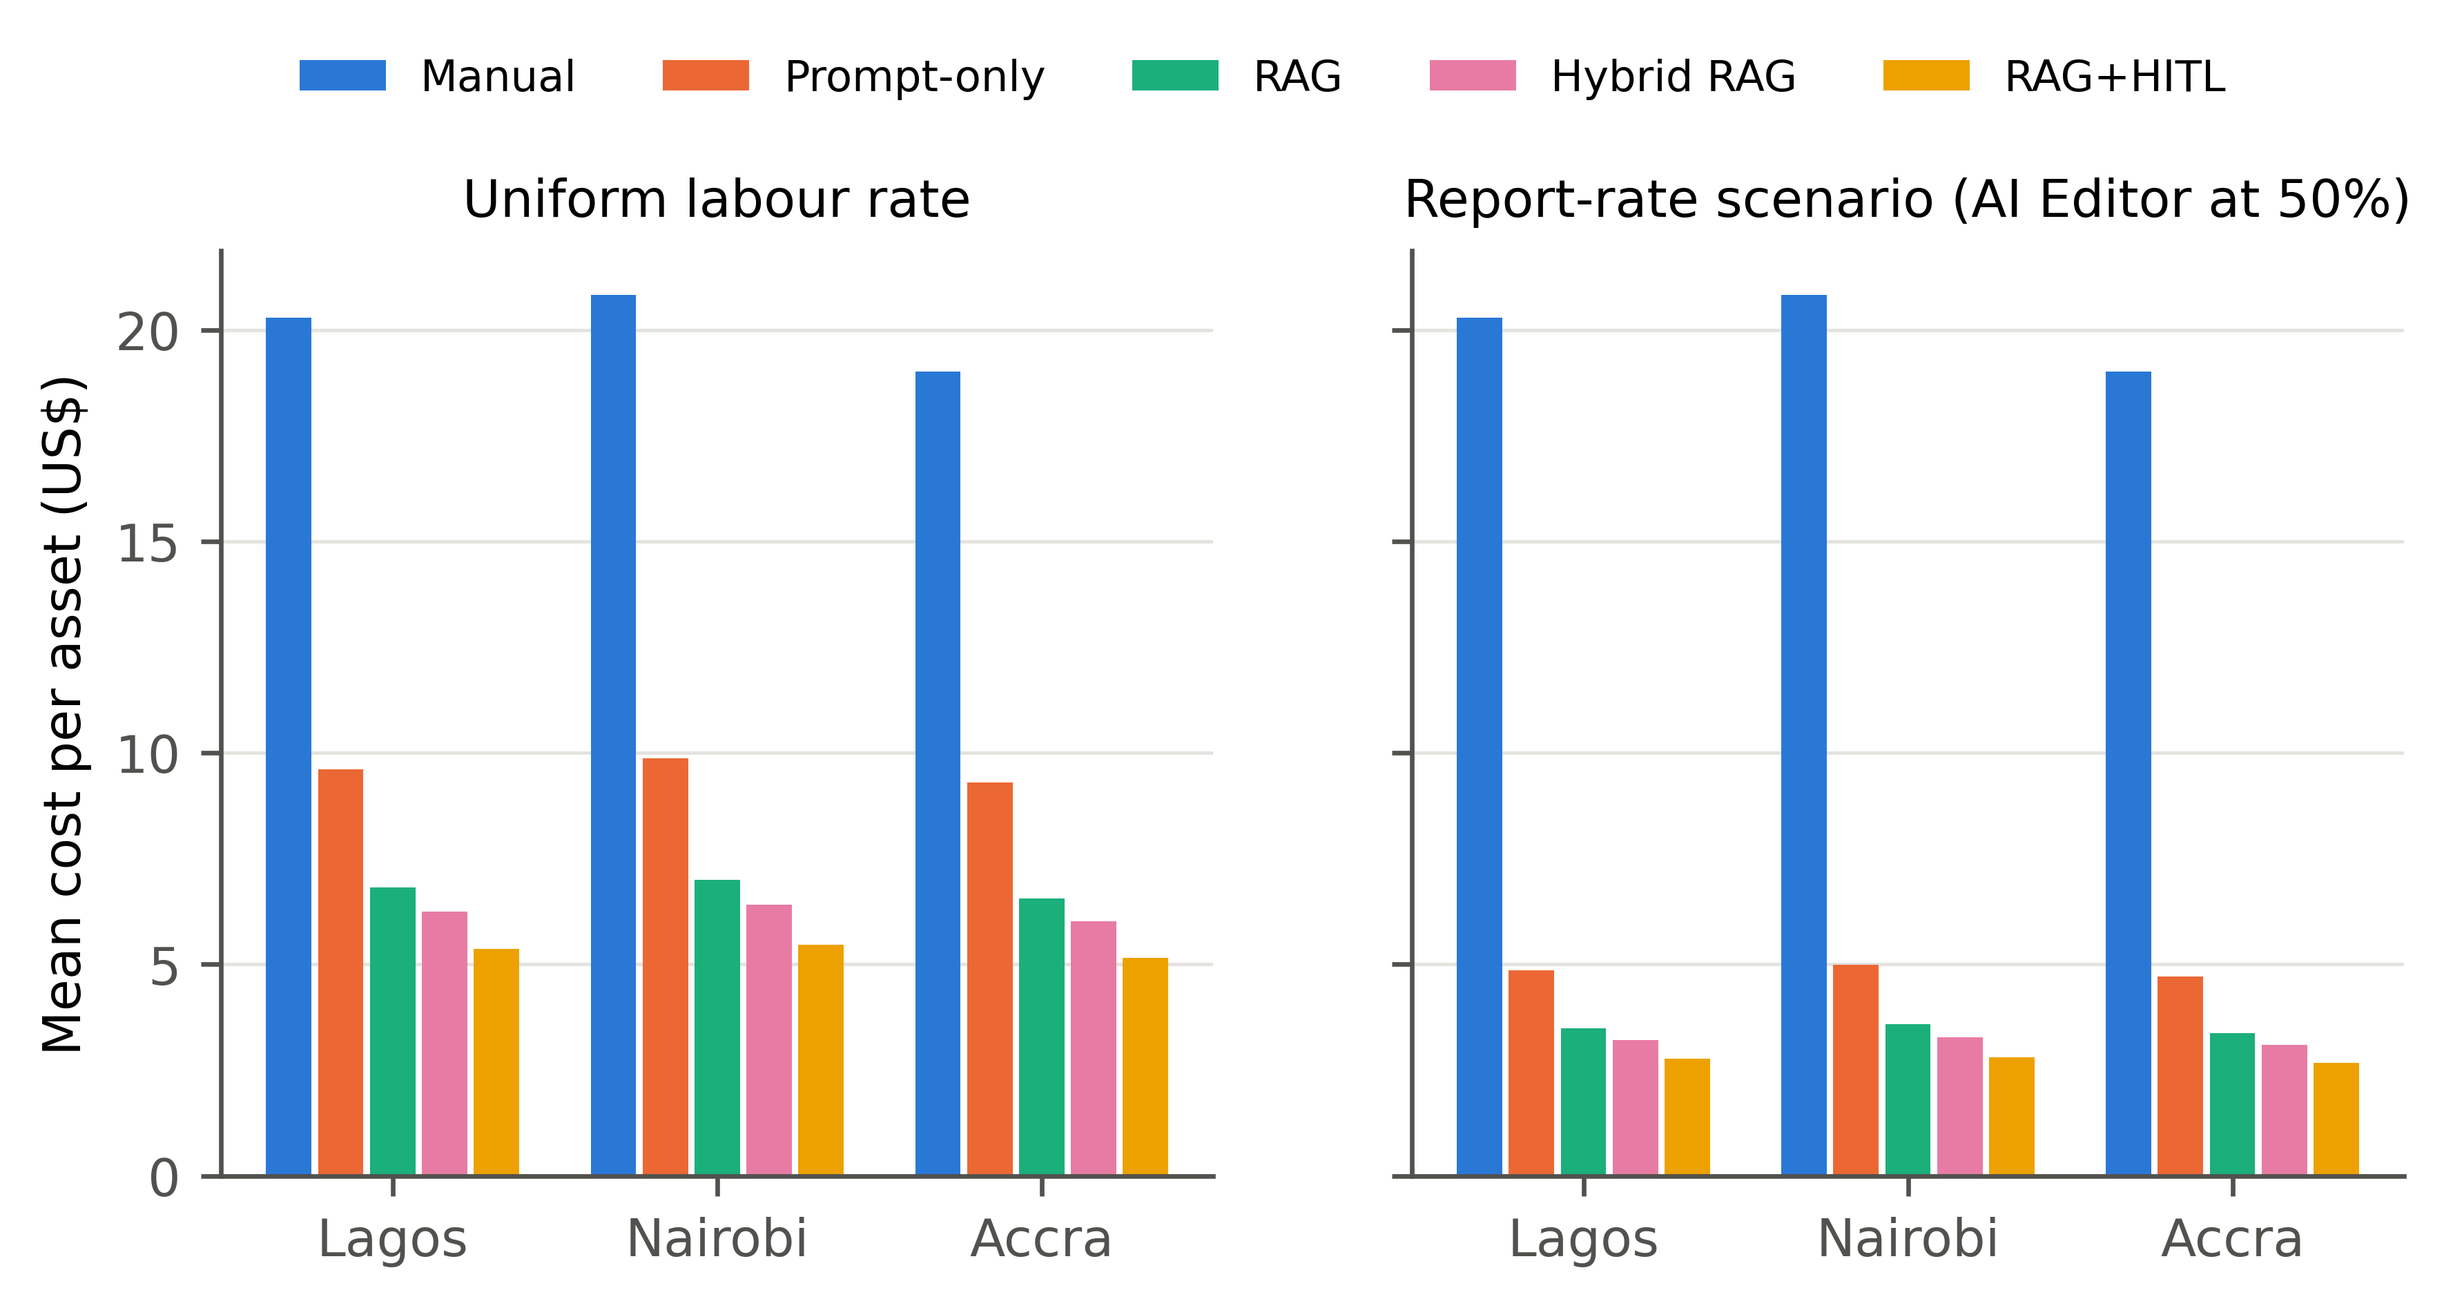
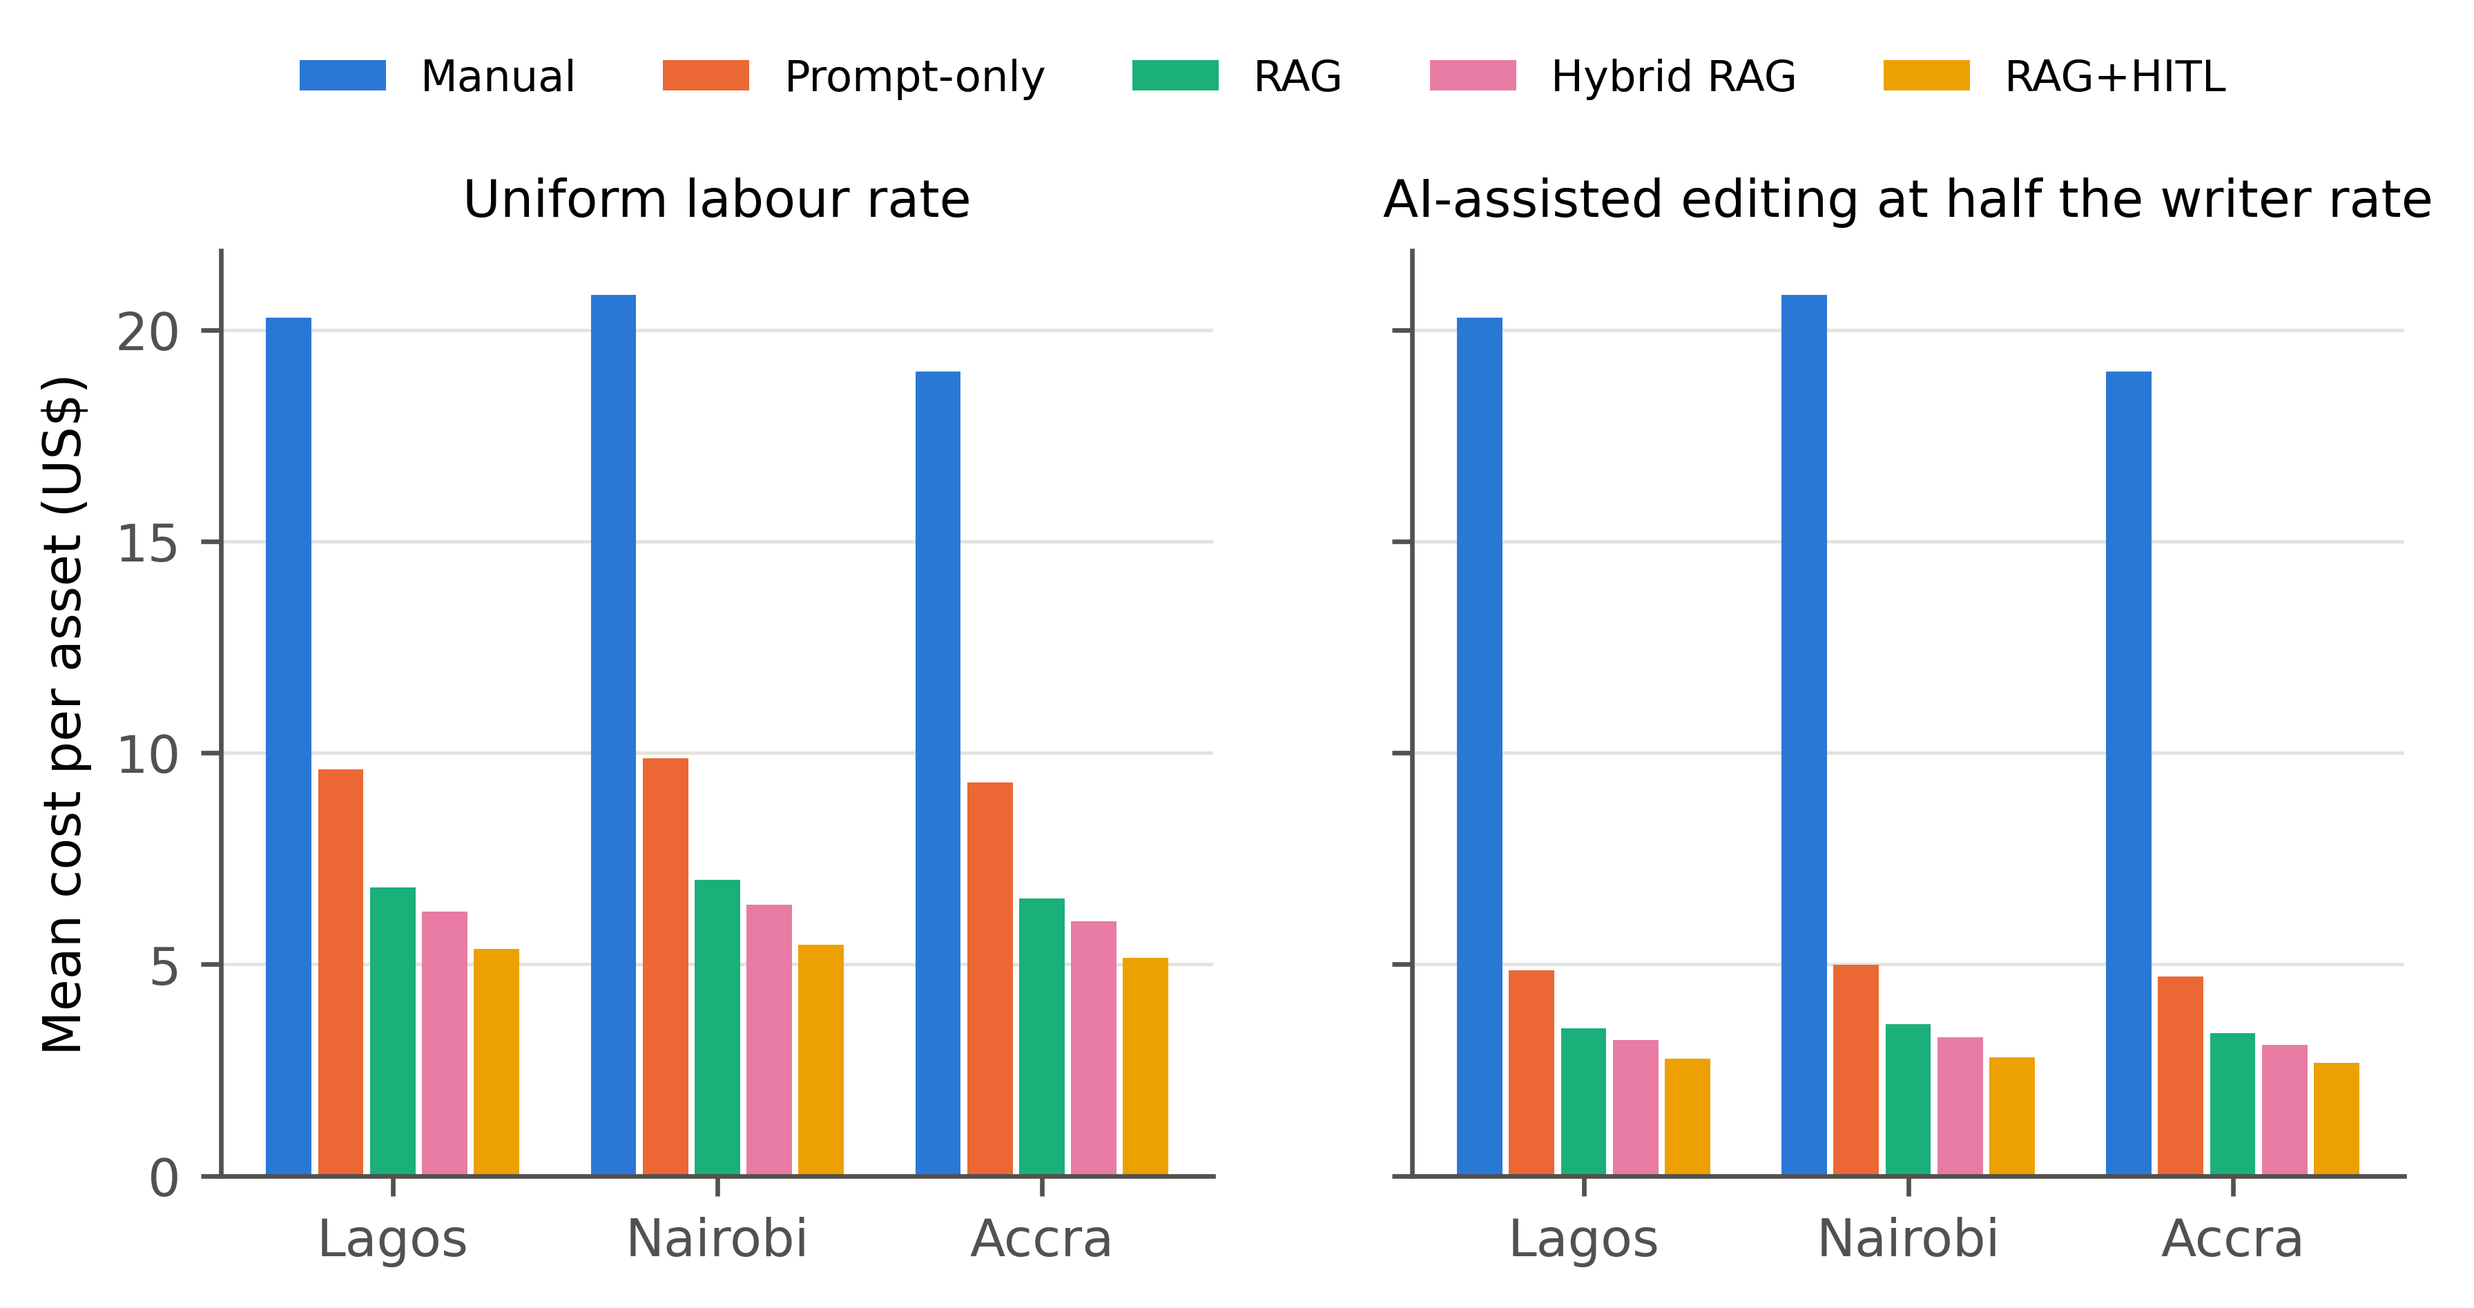
Describe sources as observed pilot records; relabel half-rate cost scenario
Wording only: all simulated values and statistics are unchanged.

diff --git a/src/build_workbook.py b/src/build_workbook.py
@@ -19,8 +19,8 @@ DICT = {
  "evidence_basis": "Pilot-anchored (Lagos) or literature-extrapolated (Nairobi/Accra); ablation arm flagged",
  "editor_id": "Writer / AI Editor", "editor_ai_experience_months": "Prior GenAI experience (months)", "native_speaker_review": "1 = local-language output reviewed by native-speaker AI Editor (RAG+HITL)",
  "gen_or_draft_min": "Manual drafting, or prompt preparation + generation + retrieval (min)", "editing_min": "Human editing to acceptance (min)",
- "total_min": "Total production time (min)", "revisions": "Revision rounds to acceptance", "major_edits": "Major editorial interventions (report Table 4.10)",
- "minor_edits": "Minor editorial interventions (report Table 4.10)", "first_pass_accepted": "1 = first draft accepted without major revision", "turnaround_days": "Calendar days brief-to-approval incl. queueing",
+ "total_min": "Total production time (min)", "revisions": "Revision rounds to acceptance", "major_edits": "Major editorial interventions (pilot categories)",
+ "minor_edits": "Minor editorial interventions (pilot categories)", "first_pass_accepted": "1 = first draft accepted without major revision", "turnaround_days": "Calendar days brief-to-approval incl. queueing",
  "rater1_overall": "Blinded rater 1 overall quality (1-5, half-point)", "rater2_overall": "Blinded rater 2", "rater3_overall": "Blinded rater 3", "overall_quality": "Mean of 3 blinded raters (holistic rating)",
  "q_brand_consistency": "Quality rubric: brand voice (1-5)", "q_factual_accuracy": "Quality rubric: accuracy vs approved sources", "q_readability": "Quality rubric: readability",
  "q_personalisation": "Quality rubric: personalisation to segment", "q_grammar": "Quality rubric: grammar", "q_cta": "Quality rubric: call to action", "q_compliance": "Quality rubric: legal/regulatory compliance",
@@ -28,15 +28,15 @@ DICT = {
  "segment_distinctiveness": "Semantic distance between segment variants (0-1)",
  "err_unsupported_claims": "Audit: unsupported claims", "err_missing_citations": "Audit: missing citations", "err_incorrect_facts": "Audit: incorrect facts",
  "err_wrong_tone": "Audit: wrong tone", "err_generic_copy": "Audit: generic copy", "err_missing_cta": "Audit: missing CTA", "err_unsupported_statistic": "Audit: unsupported statistic", "err_outdated_claim": "Audit: outdated claim",
- "hallucination_errors": "Report definition: unsupported claims + missing citations + incorrect facts", "total_errors": "Sum of all 8 audited error types",
+ "hallucination_errors": "Definition: unsupported claims + missing citations + incorrect facts", "total_errors": "Sum of all 8 audited error types",
  "factual_claims": "Checkable claims in asset", "unsupported_or_incorrect_claims": "Claims unsupported/incorrect/unsourced statistic/outdated", "supported_claim_rate": "1 - bad claims / claims",
  "max_similarity": "Max n-gram similarity to reference corpus", "copyright_flag": "1 = similarity > 0.30", "retrieved_docs": "Documents injected into context",
  "hit_at_3": "Relevant doc in top 3", "precision_at_3": "Relevant in top 3 / 3", "recall_at_3": "Relevant in top 3 / relevant in KB", "reciprocal_rank": "1/rank of first relevant (0 if none in top 3)",
  "input_tokens": "LLM input tokens", "output_tokens": "LLM output tokens", "latency_s": "Retrieval + time-to-first-token (s)", "api_cost_usd": "GPT-4o + embedding API cost (US$)",
  "platform_cost_usd": "Amortised vector DB / monitoring cost", "labour_rate_usd_h": "Market fully loaded labour rate (Lagos from pilot; others assumption)",
  "labour_cost_uniform_usd": "Active minutes x market rate (all workflows)", "total_cost_uniform_usd": "PRIMARY cost per accepted asset",
- "labour_cost_report_rate_usd": "Scenario reproducing the preliminary report: AI-assisted work at 50% of rate", "total_cost_report_rate_usd": "Report-rate scenario cost per asset",
- "hitl_primary_intervention": "Main HITL intervention type (report Table 4.11 categories)", "data_status": "Every row SYNTHETIC",
+ "labour_cost_report_rate_usd": "Sensitivity scenario: AI-assisted work paid at 50% of the writer rate", "total_cost_report_rate_usd": "Sensitivity-scenario cost per asset (AI-assisted work at 50% rate)",
+ "hitl_primary_intervention": "Main HITL intervention type (pilot categories)", "data_status": "Every row SYNTHETIC",
 }
 wb = Workbook(write_only=True)
 def hdr(ws, cols):
@@ -50,7 +50,7 @@ for t in ["GenAI Creative Engine — 50,000-record simulated extension", "",
           "Design: 5 workflows x 10,000 paired tasks = 50,000 observations x 78 variables. Tasks = 5 fictional clients x 10 segments x 5 content types x 2 languages x replicates (Lagos 10, Nairobi 5, Accra 5).",
           "Calibration: the pilot anchor cell (EcoFresh x Lagos x Social Post, off-peak) reproduces all 60 observed pilot measures within 2 standard errors (sheet Calibration_Audit).",
           "Hybrid RAG is an ablation arm whose parameters are an explicit assumption (retrieval = 40% of time/quality gain, 60% of factual-error gain); it is not observed.",
-          "Costs: total_cost_uniform_usd (same labour rate for all workflows; primary) and total_cost_report_rate_usd (AI-assisted labour at 50% rate, reproducing the report's US$1.56).",
+          "Costs: total_cost_uniform_usd (same labour rate for all workflows; primary) and total_cost_report_rate_usd (AI-assisted labour at 50% rate; sensitivity scenario).",
           "Tables T1-T5: pilot anchor cell, off-peak, mean per brief; compare with the observed pilot values alongside."]:
     ws.append([t])
 ws = wb.create_sheet("Data"); hdr(ws, list(D.columns))

diff --git a/src/generate_simulation.py b/src/generate_simulation.py
@@ -2,9 +2,8 @@
 GenAI Creative Engine - 50,000-record SIMULATED (synthetic) extension of the observed pilot
 ===================================================================================
 Every value produced here is SIMULATED. It is anchored to the OBSERVED Phase-1
-Lagos pilot (per-brief values, Tables 4.1, 4.3-4.8, 4.10, 4.18, 4.19 and 3.9 of
-the preliminary technical report) and to effect directions reported in the
-supporting literature. It must be labelled synthetic in any publication.
+Lagos pilot (observed per-brief records, data/pilot_observed.csv) and to effect
+directions reported in the supporting literature. It must be labelled synthetic in any publication.
 
 Design (paired across workflows):
   5 workflows x 10,000 tasks = 50,000 records
@@ -12,7 +11,7 @@ Design (paired across workflows):
           replicates: Lagos 10 (HQ / pilot site, 50% of volume), Nairobi 5, Accra 5
 Anchor cell  = pilot client (EcoFresh, FMCG) x Lagos x English x Social Post x off-peak
                -> reproduces the observed per-brief pilot values in expectation.
-Yoruba anchor = same cell in Yoruba under RAG+HITL (report Table 4.18).
+Yoruba anchor = same cell in Yoruba under RAG+HITL (observed pilot).
 """
 import itertools, numpy as np, pandas as pd
 
@@ -23,7 +22,7 @@ rng = np.random.default_rng(SEED)
 SEGS = ["Students", "Young Professionals", "Working Mothers", "Fitness Enthusiasts", "Entrepreneurs",
         "Senior Adults", "Rural Communities", "Premium Customers", "Environmentally Conscious", "Corporate Buyers"]
 BID = [f"B{i:03d}" for i in range(1, 11)]
-P = {  # per-brief observed values, Lagos English social post (report Tables 4.1, 4.3, 4.4, 4.5)
+P = {  # per-brief observed values, Lagos English social post (observed pilot)
  "Manual":   dict(gen=[28,31,34,30,35,35,39,33,32,37], edit=[12,14,15,13,15,16,18,14,14,16], rev=[2,2,2,2,2,2,3,2,2,2],
                   q=[4.2,4.2,4.3,4.2,4.3,4.1,4.0,4.3,4.2,4.3], api=[0]*10, docs=[0]*10),
  "Prompt-only": dict(gen=[3,3,3,3,3,3,4,3,3,3], edit=[15,16,18,16,18,19,21,18,17,18], rev=[3,3,3,3,3,3,4,3,3,4],
@@ -33,20 +32,20 @@ P = {  # per-brief observed values, Lagos English social post (report Tables 4.1
  "RAG+HITL": dict(gen=[4,4,4,4,4,4,5,4,4,4], edit=[6,7,8,7,8,9,10,8,8,9], rev=[1,2,2,2,2,2,2,2,2,2],
                   q=[4.5,4.5,4.6,4.5,4.5,4.4,4.3,4.6,4.5,4.5], api=[.05,.05,.06,.05,.06,.05,.06,.06,.06,.06], docs=[5]*10),
 }
-# Yoruba RAG+HITL per brief (Table 4.18)
+# Yoruba RAG+HITL per brief (observed pilot)
 YOR = dict(gen=[5,5,5,5,5,5,6,5,5,5], edit=[10,10,11,10,11,12,14,11,11,12], rev=[2,2,2,2,2,3,3,2,2,2],
            fact=[4.1,4.1,4.0,4.1,4.0,3.9,3.8,4.1,4.0,4.0], flu=[3.6,3.7,3.6,3.7,3.6,3.4,3.3,3.7,3.6,3.5],
            tone=[3.8,3.8,3.7,3.8,3.7,3.6,3.5,3.9,3.8,3.8], cult=[3.5,3.6,3.5,3.5,3.5,3.3,3.2,3.6,3.5,3.4])
-# Quality-rubric dimension means (Table 4.6): brand, factual, readability, personalisation
+# Quality-rubric dimension means (observed pilot): brand, factual, readability, personalisation
 QD = {"Manual": (4.4, 4.5, 4.3, 3.8), "Prompt-only": (3.4, 3.3, 4.0, 4.1), "RAG": (4.0, 4.5, 4.1, 4.2), "RAG+HITL": (4.6, 4.7, 4.4, 4.5)}
-# Multilingual rubric, English (Table 4.19 RAG+HITL: 4.5/4.6/4.4/4.5); other arms = ASSUMPTION
+# Multilingual rubric, English (observed pilot RAG+HITL: 4.5/4.6/4.4/4.5); other arms = ASSUMPTION
 ML = {"Manual": (4.5, 4.5, 4.4, 4.4), "Prompt-only": (3.4, 4.1, 3.4, 3.8), "RAG": (4.4, 4.2, 4.0, 4.0), "RAG+HITL": (4.5, 4.6, 4.4, 4.5)}
 # Errors per 10 briefs (Tables 4.7 + 4.8 unified): unsupported, missing_cit, incorrect, tone, generic, cta, stat, outdated
 ERR = {"Prompt-only": (8, 5, 3, 4, 3, 2, 3, 1), "RAG": (2, 1, 1, 1, 1, 0, 0, 0), "RAG+HITL": (1, 0, 1, 1, 0, 0, 0, 0),
        "Manual": (1.0, 1.0, 0.5, 0.5, 1.5, 0.5, 0.5, 0.5)}           # Manual not audited in pilot -> ASSUMPTION
 ETYPES = ["unsupported_claims", "missing_citations", "incorrect_facts", "wrong_tone", "generic_copy",
           "missing_cta", "unsupported_statistic", "outdated_claim"]
-# Editing interventions per 10 briefs (Table 4.10): major, minor; first-draft acceptance
+# Editing interventions per 10 briefs (observed pilot): major, minor; first-draft acceptance
 EDITS = {"Prompt-only": (3, 14, .60), "RAG": (1, 11, .80), "RAG+HITL": (1, 8, .90), "Manual": (1, 9, .70)}  # Manual = ASSUMPTION
 
 # ------------------------------------------------------------------ ablation arm (ASSUMPTION)
@@ -241,7 +240,7 @@ for (mkt, rep, sec, cc, cx, risk, si, ct, is_loc) in combos:
             api = 0.0; tin = tout = 0; latency = np.nan
         active = total - (0 if not ai else latency / 60 * revisions)
         lab_u = active / 60 * M["rate"]                               # uniform-rate scheme (primary)
-        lab_r = active / 60 * M["rate"] * (0.5 if ai else 1.0)        # report-rate scenario (AI Editor at 50% rate)
+        lab_r = active / 60 * M["rate"] * (0.5 if ai else 1.0)        # sensitivity scenario (AI-assisted editing at 50% rate)
         platform = .03 if wf in ("RAG", "Hybrid RAG", "RAG+HITL") else 0
         ta = float(np.exp(rng.normal(np.log((9.0 if peak else 2.0) if not ai else (.7 if wf == "RAG+HITL" else .6) * (2.2 if peak else 1)), .35))) * C["md"] ** .3
         intervention = rng.choice(["Brand voice correction", "Factual verification", "Cultural localisation", "CTA optimisation", "Compliance review"],

diff --git a/src/analyse_simulation.py b/src/analyse_simulation.py
@@ -23,7 +23,7 @@ for wf in ["Manual", "Prompt-only", "RAG", "RAG+HITL"]:
         m, se = s[sv].mean(), s[sv].std(ddof=1) / np.sqrt(len(s))
         cal.append(dict(workflow=wf, language="English", measure=sv, observed_pilot=o[ov].mean(), synthetic=m,
                         diff=m - o[ov].mean(), z=(m - o[ov].mean()) / se, n_synth=len(s)))
-    # quality dims (report Table 4.6)
+    # quality dims (observed pilot rubric)
     for sv, val in zip(["q_brand_consistency", "q_factual_accuracy", "q_readability", "q_personalisation"],
                        {"Manual": (4.4, 4.5, 4.3, 3.8), "Prompt-only": (3.4, 3.3, 4.0, 4.1), "RAG": (4.0, 4.5, 4.1, 4.2), "RAG+HITL": (4.6, 4.7, 4.4, 4.5)}[wf]):
         m, se = s[sv].mean(), s[sv].std(ddof=1) / np.sqrt(len(s))
@@ -155,7 +155,7 @@ addH("H5", "RAG+HITL sustains quality ≥4.0 in all 10 segments and raises segme
      f"{(seg >= 4).sum()}/10 segments ≥4.0 (min {seg.min():.2f}); distinctiveness {Wd['RAG+HITL'].mean():.2f} vs {Wd['Manual'].mean():.2f}",
      "Segment means; paired t-test", "<0.001", "Yes" if (seg >= 4).sum() == 10 else "Partly")
 addH("H6", "RAG+HITL cuts cost per accepted asset by ≥40% (competitor gap; RQ6)",
-     f"Uniform rate: {c.cost_red_uniform:.1f}% ({c.cu_lo:.1f}–{c.cu_hi:.1f}); report-rate scenario: {c.cost_red_reportrate:.1f}% ({c.cr_lo:.1f}–{c.cr_hi:.1f})",
+     f"Uniform rate: {c.cost_red_uniform:.1f}% ({c.cu_lo:.1f}–{c.cu_hi:.1f}); half-rate scenario: {c.cost_red_reportrate:.1f}% ({c.cr_lo:.1f}–{c.cr_hi:.1f})",
      "Task-clustered bootstrap", "<0.001", "Yes (both schemes)" if (c.cu_lo > 40 and c.cr_lo > 40) else "Partly")
 hh = D[D.workflow.isin(["RAG", "RAG+HITL"])]
 gap = hh.groupby(["workflow", "language"]).ml_cultural_fit.mean().unstack(); gap = gap.sub(gap["English"], axis=0)
@@ -312,7 +312,7 @@ ax.set_xlabel("Study week (weeks 10–12 = peak season)"); ax.set_ylabel("Mean e
 fig.savefig("figures/fig9_learning.png"); plt.close()
 # F8 cost by market, two schemes
 fig, axs = plt.subplots(1, 2, figsize=(6.8, 2.9), sharey=True)
-for ax, col, t in zip(axs, ["total_cost_uniform_usd", "total_cost_report_rate_usd"], ["Uniform labour rate", "Report-rate scenario (AI Editor at 50%)"]):
+for ax, col, t in zip(axs, ["total_cost_uniform_usd", "total_cost_report_rate_usd"], ["Uniform labour rate", "AI-assisted editing at half the writer rate"]):
     cm = D.groupby(["market", "workflow"])[col].mean().unstack()[WF].reindex(["Lagos", "Nairobi", "Accra"]); xx = np.arange(3)
     for i, wf in enumerate(WF): ax.bar(xx + (i - 2) * w_, cm[wf], width=w_ - .02, color=C[wf], label=wf)
     ax.set_xticks(xx, ["Lagos", "Nairobi", "Accra"]); ax.set_title(t, fontsize=9); ax.grid(axis="x", visible=False)

diff --git a/src/pilot_analysis.py b/src/pilot_analysis.py
@@ -1,7 +1,7 @@
 """
 Phase 1 EMPIRICAL pilot (observed data, Lagos, 10 briefs).
-Per-brief values transcribed from the preliminary technical report
-(Tables 4.1, 4.3, 4.4, 4.5, 4.18). Costs recomputed with one uniform labour
+Observed per-brief pilot records (time, revisions, quality, errors and costs).
+Costs computed with one uniform labour
 rate (US$15/h, the rate implied by the manual baseline) + observed API cost.
 """
 import json
@@ -82,7 +82,7 @@ out["yoruba"] = dict(total=float(Y.total_min.mean()), edit=float(Y.editing_min.m
                      fact=float(Y.factual_retention.mean()), flu=float(Y.fluency.mean()), tone=float(Y.brand_tone.mean()),
                      cult=float(Y.cultural_fit.mean()),
                      edit_vs_english_p=float(stats.wilcoxon(yh.editing_min, eng_h.editing_min).pvalue))
-# pilot error audit (Table 4.7) & rater agreement (Table 3.9) - observed
+# pilot error audit & rater agreement - observed
 out["errors"] = {"Prompt-only": [8, 5, 3, 16], "RAG": [2, 1, 1, 4], "RAG+HITL": [1, 0, 1, 2]}
 out["kappa"] = {"Brand": 0.78, "Factual": 0.82, "Readability": 0.74, "Personalisation": 0.71, "Overall": 0.76}
 json.dump(out, open("results/pilot_summary.json", "w"), indent=2)
